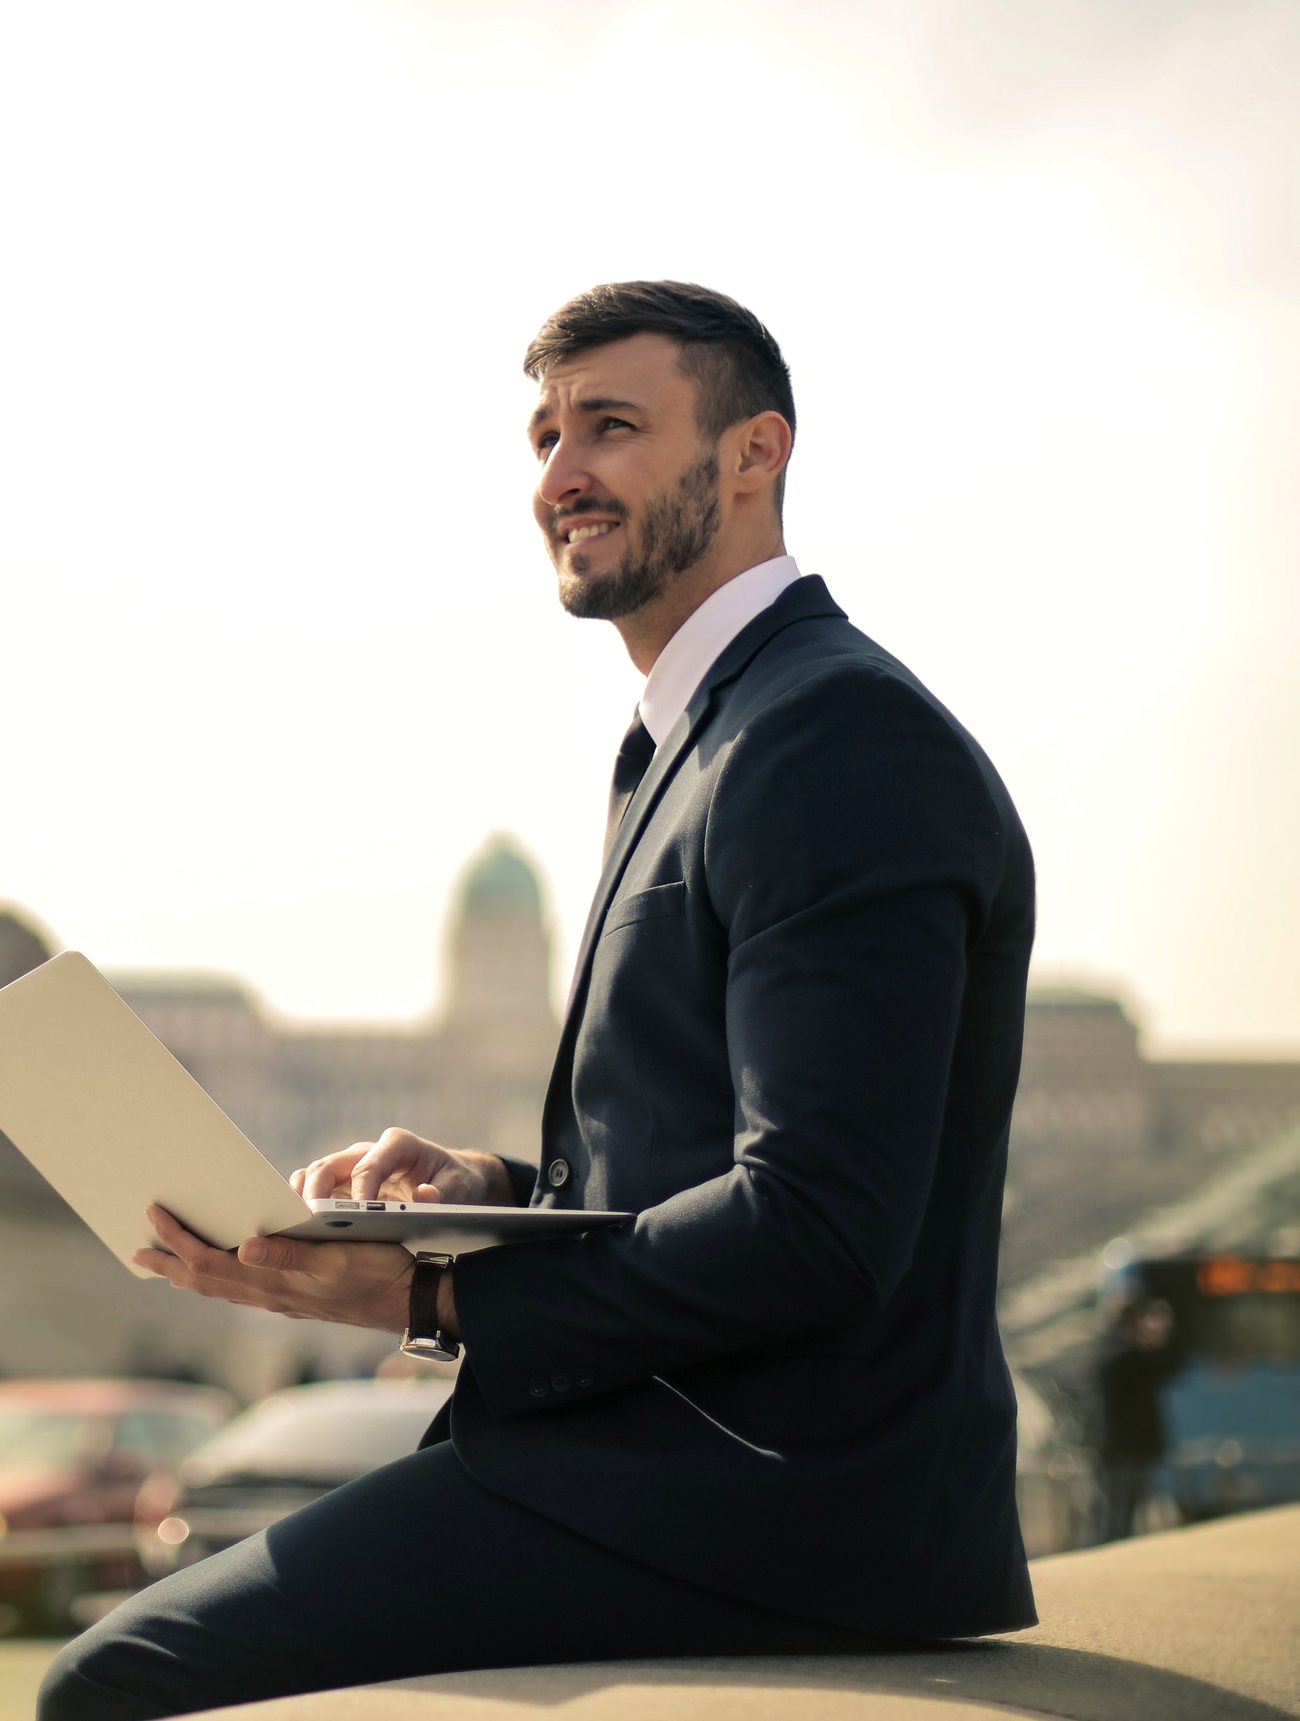
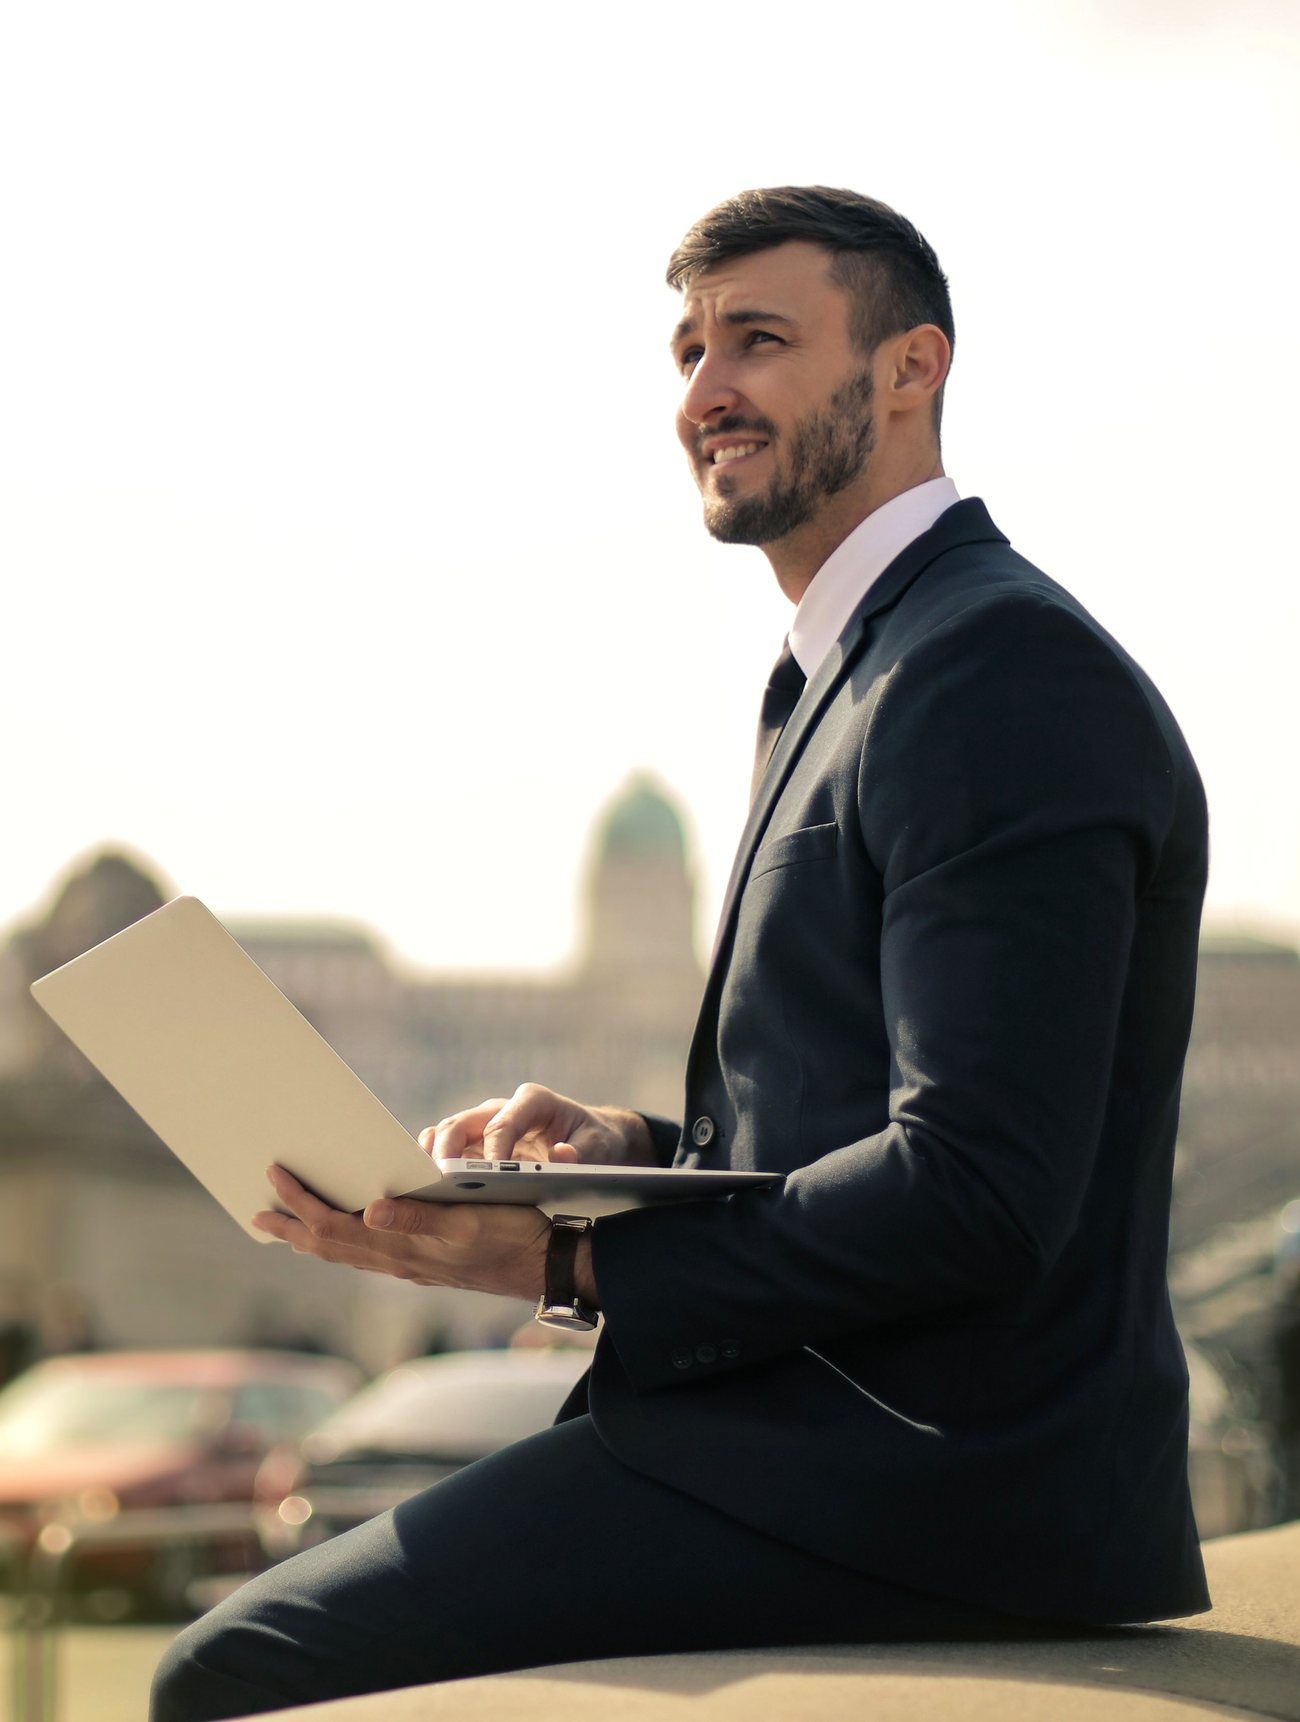
Bring the hero photograph back, reframe the cockpit photo, drop the admin link
Three things the client flagged on the home page. The banner photo had gone
nearly invisible: two white veils stacked to ~95% coverage over the lower right,
which is exactly where the graduates are. The cockpit photo carried roughly 27%
of empty hazy sky above the man's head. And the public topbar advertised an
Admin Console link the institute does not want in the header.

The veil now holds its ~0.9 only across the editorial column and fades out before
the right edge, and the bottom rise is masked off over the faces it was blanking.
Both cockpit crops are rebuilt from the source with 6% and 12% headroom instead
of 27% and 20%, with the img's object-position following the frames that crop
them. The phone band also gained the dark-mode veil it never had: written once in
white it ended the band in #ffffff over the ink section, so the last headline
line sat white-on-white in dark mode.

🤖 Generated with Codebuff

diff --git a/client/src/components/Hero.jsx b/client/src/components/Hero.jsx
@@ -118,22 +118,29 @@ export default function Hero({ onOpenLeadModal, onExploreCourses }) {
               without veiling the graduates' faces. */}
           <div className="absolute inset-x-0 bottom-0 h-14 bg-gradient-to-t from-white via-white/60 to-transparent dark:from-[#001845] dark:via-[#001845]/55 lg:hidden" />
 
-          {/* Desktop scrim: heavier behind the copy, easing off on the right so
-              the photograph still reads as a photograph. Keeps the page's light
-              aesthetic in light mode and its ink aesthetic in dark mode.
+          {/* Desktop scrim: it has one job — hold the copy's contrast — so it
+              stays near 0.9 across the editorial column and then falls away to
+              nothing. The earlier version still held 0.55 white at the right
+              edge, and the bottom rise below stacked on top of it, putting
+              ~95% white over the lower right of the frame: that is where the
+              graduates are, so the photograph read as a blank panel.
 
               Every stop is written as an arbitrary opacity — `from-white/92`
               and friends compiled to nothing, because Tailwind's `/n` modifier
               only accepts the values on its own opacity scale (multiples of 5).
               Without them this div was a plain white-to-transparent wash, which
               is why the body copy sat on bare photograph and greyed out. */}
-          <div className="hidden lg:block absolute inset-0 bg-gradient-to-r from-white/[0.94] via-white/[0.84] to-white/[0.55] dark:from-slate-950/[0.95] dark:via-slate-950/[0.88] dark:to-slate-950/[0.72]" />
-          {/* On desktop the trust ledger and the intake line sit over the gowns
-              and caps, where a 55%-white veil is not enough for the smaller
-              type. This taller bottom rise carries them and doubles as the fade
-              into the section's own aurora wash, so the banner has no hard seam
-              against the sections below. */}
-          <div className="hidden lg:block absolute inset-x-0 bottom-0 h-[58%] bg-gradient-to-t from-white from-[5%] via-white/[0.88] via-[45%] to-transparent dark:from-[#001845] dark:via-[#001845]/[0.88]" />
+          <div className="hidden lg:block absolute inset-0 bg-gradient-to-r from-white/[0.86] from-0% via-white/[0.76] via-[58%] to-transparent to-[88%] dark:from-slate-950/[0.93] dark:via-slate-950/[0.84] dark:to-slate-950/[0.55]" />
+          {/* The copy's lower half — trust ledger and intake line — sits over
+              the black gowns, where a light veil is not enough for 11px type,
+              so this rise carries those two blocks. It is masked off across the
+              right half of the frame on purpose: that is where the faces are,
+              and a full-width rise is exactly what blanked them. */}
+          <div className="hidden lg:block absolute inset-x-0 bottom-0 h-[50%] bg-gradient-to-t from-white from-0% via-white/[0.62] via-[45%] to-transparent [mask-image:linear-gradient(to_right,black_0%,black_52%,transparent_78%)] dark:from-[#001845] dark:via-[#001845]/[0.62]" />
+          {/* A short full-width fade, so the photograph's bottom edge still
+              dissolves into the section's own aurora wash instead of ending on
+              a hard line. Deliberately short: only gowns live down here. */}
+          <div className="hidden lg:block absolute inset-x-0 bottom-0 h-[9%] bg-gradient-to-t from-white to-transparent dark:from-[#001845]" />
         </div>
       </div>
 
@@ -180,8 +187,13 @@ export default function Hero({ onOpenLeadModal, onExploreCourses }) {
                   Written as one arbitrary gradient on purpose: the tuned curve
                   needs six stops, and Tailwind's `from`/`via`/`to` utilities
                   carry only three. The named stop scale is also a trap here — it
-                  ships multiples of 5 only, so `to-76%` compiles to nothing. */}
-              <div className="absolute inset-0 bg-[linear-gradient(to_bottom,rgba(255,255,255,0)_0%,rgba(255,255,255,0.10)_40%,rgba(255,255,255,0.42)_54%,rgba(255,255,255,0.55)_75%,rgba(255,255,255,0.68)_94%,#ffffff_100%)]" />
+                  ships multiples of 5 only, so `to-76%` compiles to nothing.
+
+                  It needs a dark variant too: written once in white it ended the
+                  band in `#ffffff` over the ink section, and in dark mode the
+                  last headline line then sat white-on-white. The dark curve ends
+                  on #001845 — the colour the section's own aurora ink starts at. */}
+              <div className="absolute inset-0 bg-[linear-gradient(to_bottom,rgba(255,255,255,0)_0%,rgba(255,255,255,0.10)_40%,rgba(255,255,255,0.42)_54%,rgba(255,255,255,0.55)_75%,rgba(255,255,255,0.68)_94%,#ffffff_100%)] dark:bg-[linear-gradient(to_bottom,rgba(0,24,69,0)_0%,rgba(0,24,69,0.30)_40%,rgba(0,24,69,0.60)_54%,rgba(0,24,69,0.72)_75%,rgba(0,24,69,0.84)_94%,#001845_100%)]" />
             </div>
 
             {/* Staggered Eyebrow Badge */}
@@ -478,7 +490,13 @@ export default function Hero({ onOpenLeadModal, onExploreCourses }) {
                           // `fetchPriority` and warns about the camelCase prop.
                           fetchpriority="high"
                           decoding="async"
-                          className="w-full h-[22rem] sm:h-[26rem] lg:h-[30rem] object-cover object-[50%_46%] group-hover:scale-[1.03] transition-transform duration-700"
+                          // The crop carries the headroom now, so the anchor is
+                          // only here for the frames whose shape differs from the
+                          // crop's: from `sm` up to `lg` the frame is much wider
+                          // than the 0.76 portrait, and `object-cover` can only
+                          // show a horizontal slice of it — the default 46%
+                          // centred on the man's chest and cut his head off.
+                          className="w-full h-[22rem] sm:h-[26rem] lg:h-[30rem] object-cover object-[50%_40%] sm:object-[50%_16%] lg:object-[50%_50%] group-hover:scale-[1.03] transition-transform duration-700"
                         />
                       </picture>
                       {/* Soft, bottom-anchored scrim: the photo carries the section,

diff --git a/client/src/components/Navbar.jsx b/client/src/components/Navbar.jsx
@@ -7,7 +7,6 @@ import {
   Menu,
   X,
   ArrowRight,
-  ShieldCheck,
   GraduationCap,
   Award,
   ChevronDown,
@@ -264,14 +263,9 @@ export default function Navbar({ onOpenLeadModal, onNavigateSection }) {
               <Award className="w-3 h-3 text-[#FF6B6B]" />
               <span>Verify Credential</span>
             </Link>
-            <span className="text-white/20">•</span>
-            <Link
-              to="/admin/login"
-              className="flex items-center gap-1 text-[#FFD9D9]/70 hover:text-white transition-colors"
-            >
-              <ShieldCheck className="w-3 h-3" />
-              <span>Admin Console</span>
-            </Link>
+            {/* No Admin Console link in the public topbar: the institute asked
+                to keep staff entry out of the header (Student LMS and the
+                certificate check stay). Staff reach it at /admin/login. */}
           </div>
         </div>
       </div>
